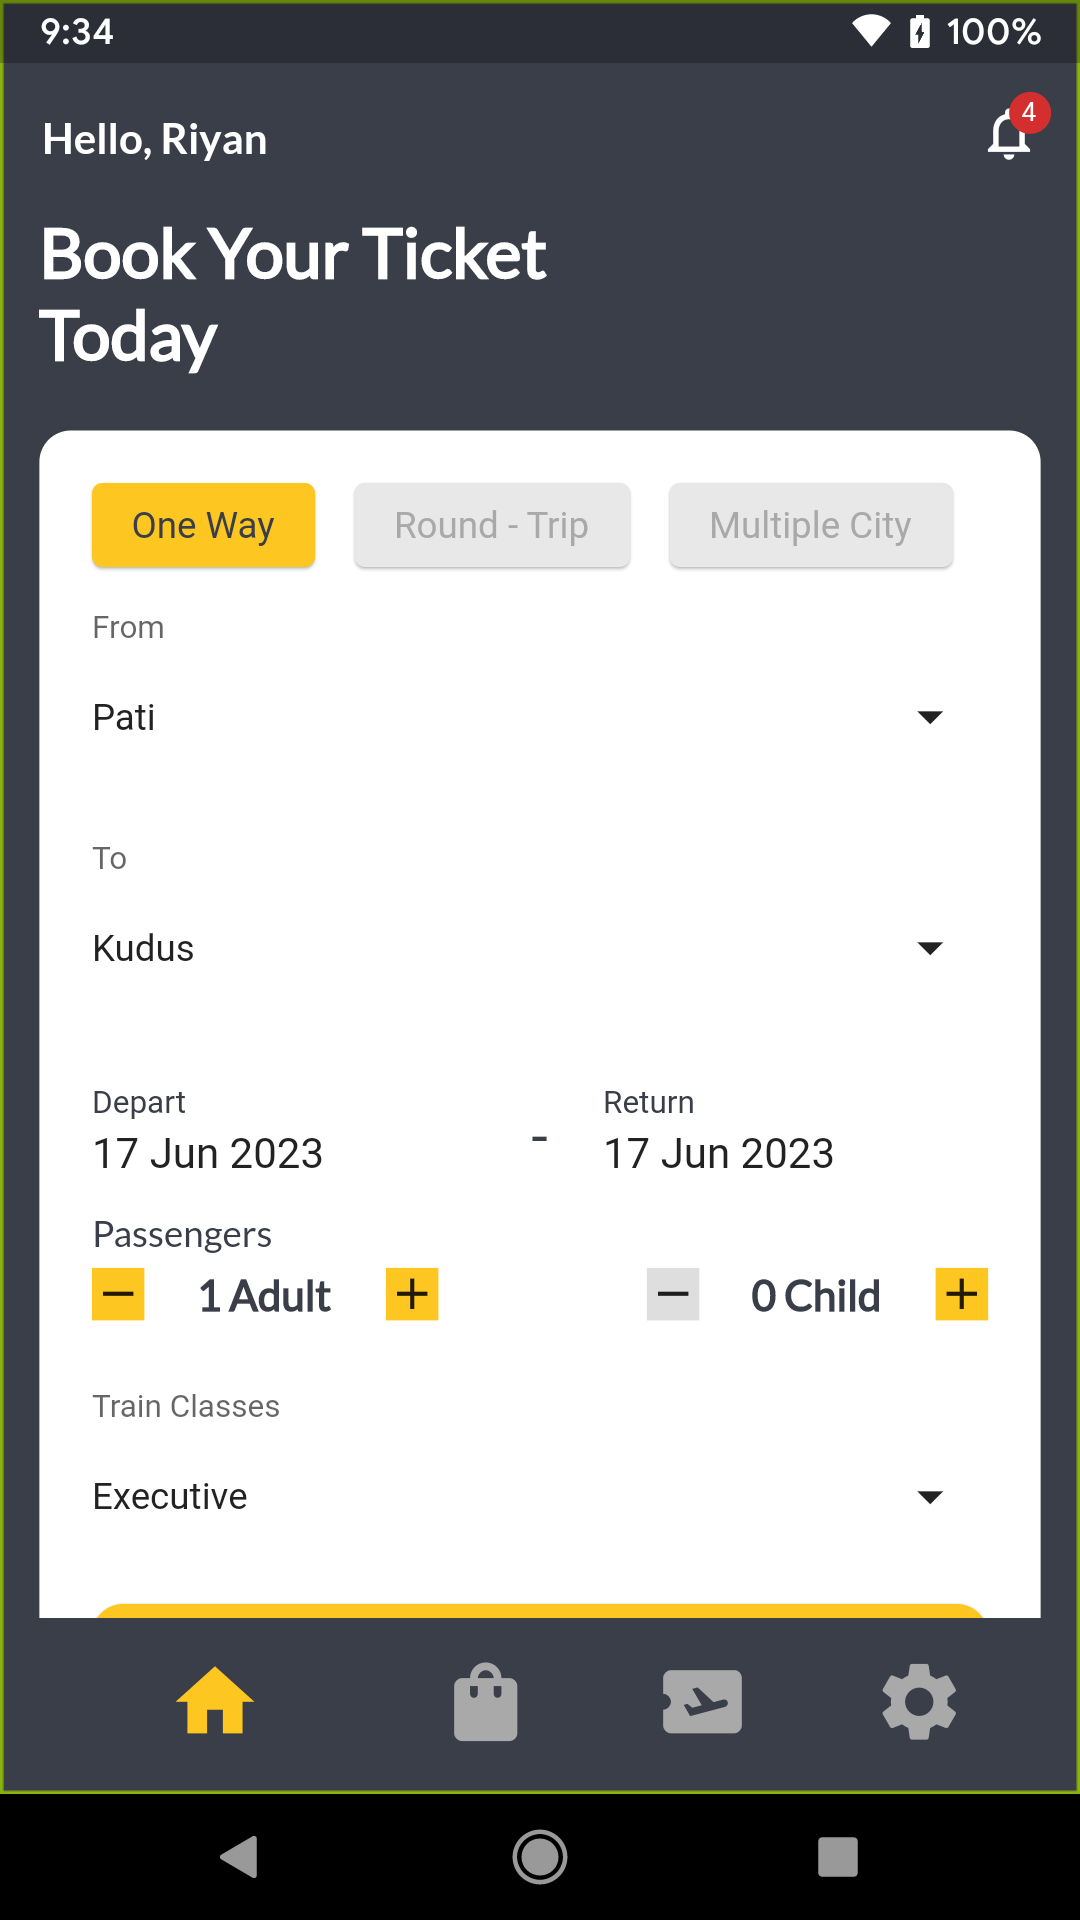
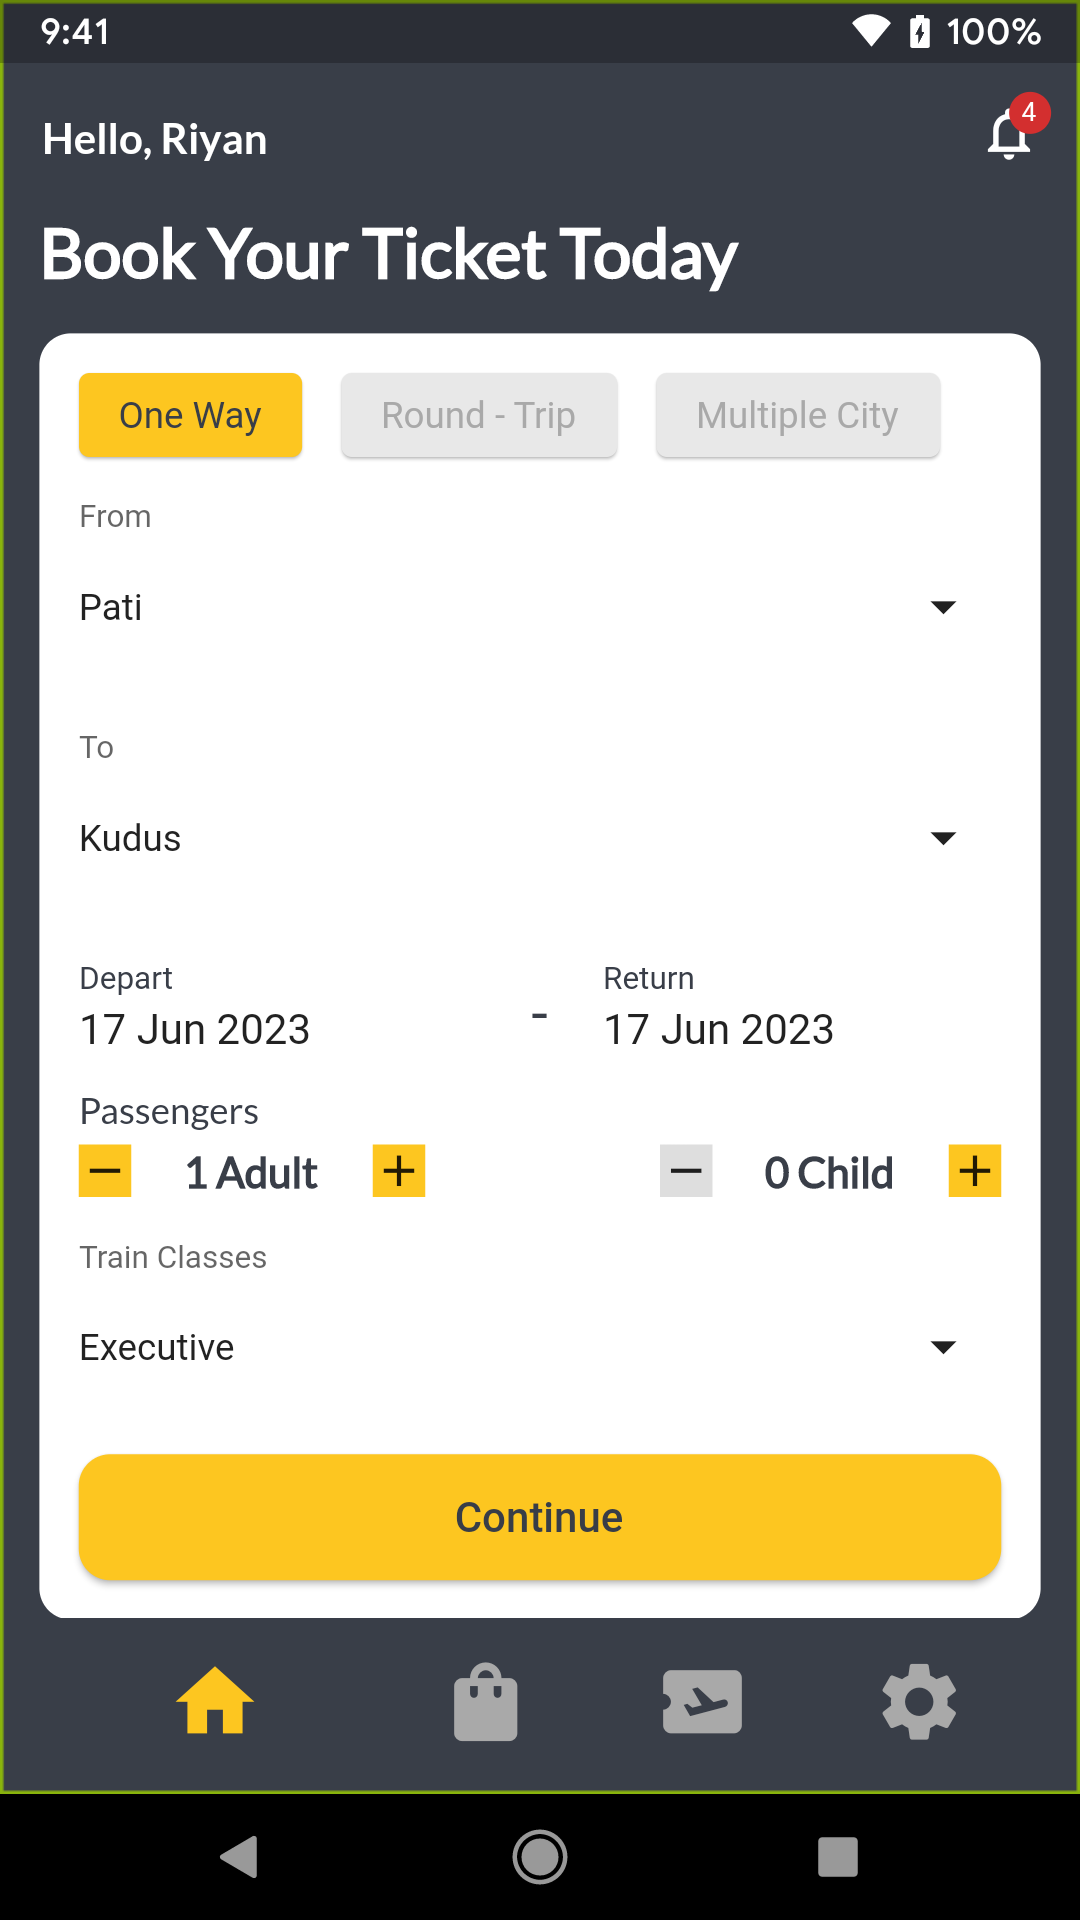
first commit

diff --git a/lib/module/dashboard/view/dashboard_view.dart b/lib/module/dashboard/view/dashboard_view.dart
@@ -3,7 +3,7 @@ import 'package:slicing_iu_train_ticket_booking/core.dart';
 import 'package:slicing_iu_train_ticket_booking/shared/widget/category_picker.dart';
 import 'package:slicing_iu_train_ticket_booking/shared/widget/datepicker.dart';
 import 'package:slicing_iu_train_ticket_booking/shared/widget/dropdown.dart';
-import '../controller/dashboard_controller.dart';
+import 'package:slicing_iu_train_ticket_booking/state_util.dart';
 
 class DashboardView extends StatefulWidget {
   const DashboardView({Key? key}) : super(key: key);
@@ -42,20 +42,20 @@ class DashboardView extends StatefulWidget {
             crossAxisAlignment: CrossAxisAlignment.start,
             children: [
               const Text(
-                "Book Your Ticket\nToday",
+                "Book Your Ticket Today",
                 style: TextStyle(
                   fontSize: 26.0,
                   fontWeight: FontWeight.bold,
                 ),
               ),
               const SizedBox(
-                height: 22.0,
+                height: 16.0,
               ),
               Theme(
                 data: ThemeData.light(),
                 child: Container(
                   width: MediaQuery.of(context).size.width,
-                  padding: const EdgeInsets.all(20.0),
+                  padding: const EdgeInsets.all(15.0),
                   decoration: const BoxDecoration(
                     color: Colors.white,
                     borderRadius: BorderRadius.all(
@@ -118,9 +118,6 @@ class DashboardView extends StatefulWidget {
                           }
                         ],
                         onChanged: (value, label) {},
-                      ),
-                      const SizedBox(
-                        height: 5.0,
                       ),
                       Row(
                         children: [
@@ -257,7 +254,7 @@ class DashboardView extends StatefulWidget {
                         ],
                       ),
                       const SizedBox(
-                        height: 15.0,
+                        height: 5.0,
                       ),
                       QDropdownField(
                         label: "Train Classes",
@@ -292,10 +289,13 @@ class DashboardView extends StatefulWidget {
                               borderRadius: BorderRadius.circular(12),
                             ),
                           ),
-                          onPressed: () {},
+                          onPressed: () => Get.to(const BookingDetailView()),
                           child: const Text(
                             "Continue",
-                            style: TextStyle(color: Color(0xff383d47)),
+                            style: TextStyle(
+                              color: Color(0xff383d47),
+                              fontSize: 16,
+                            ),
                           ),
                         ),
                       ),
